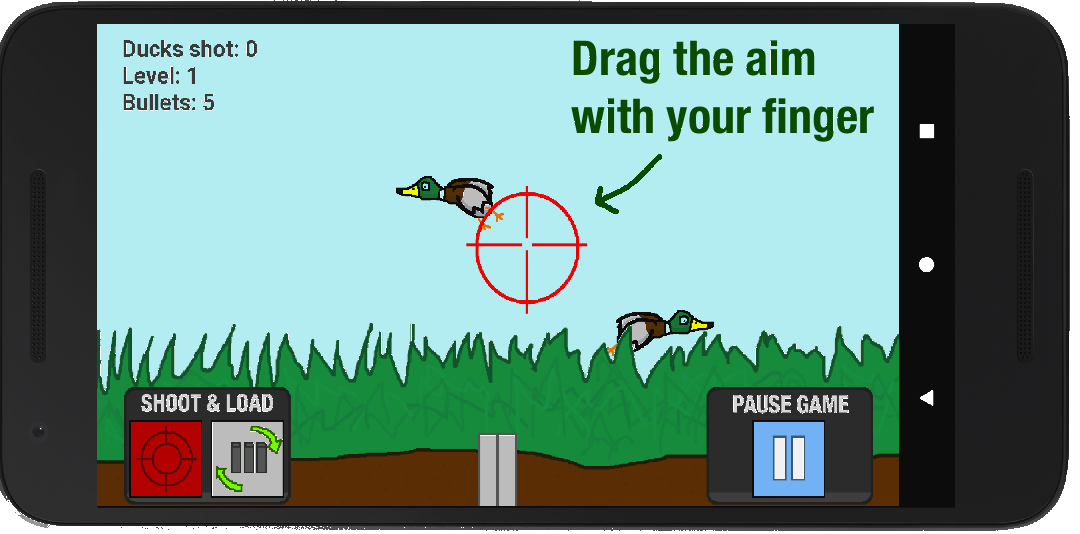
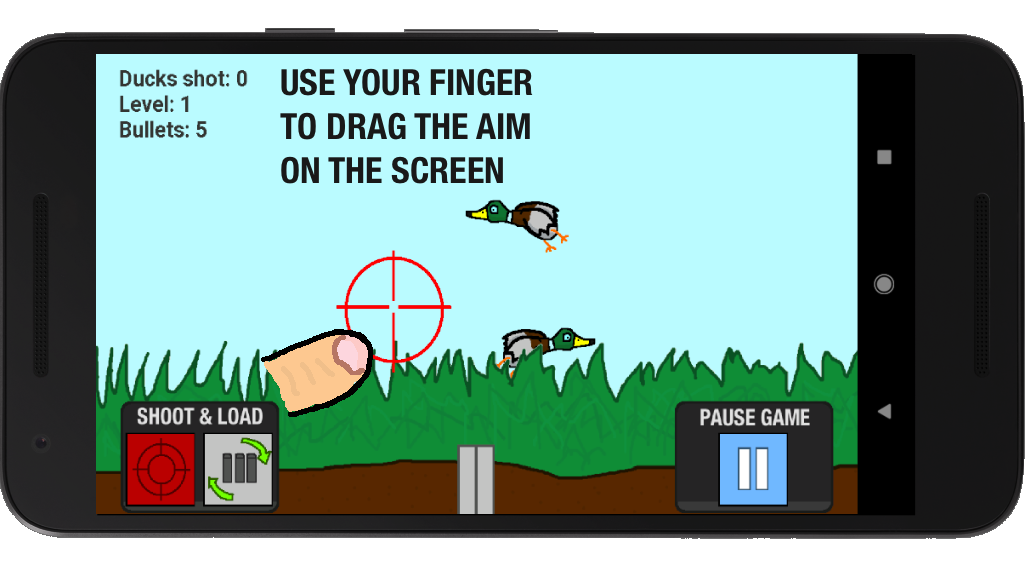
Add howtoplay animation

diff --git a/app/src/main/java/duckordie/lebasoft/duck_or_die/main/Assets.java b/app/src/main/java/duckordie/lebasoft/duck_or_die/main/Assets.java
@@ -19,7 +19,8 @@ public class Assets {
     private static SoundPool soundPool;
     //Backgrounds
     public static Bitmap playstate, storystate, menustate, selectLevelState, selectWeaponState, seastate, winterstate, highscoreState,
-    howtoplaystate1, howtoplaystate2, howtoplaystate3, howtoplaystate4, howtoplaystate5, howtoplaystate6, howtoplaystateBG;
+    howtoplaystate1, howtoplaystate2, howtoplaystate3, howtoplaystate4, howtoplaystate5, howtoplaystate6, howtoplaystateBG,
+    howtoplaystate7, howtoplaystate8, howtoplaystate9, howtoplaystate10, howtoplaystate11, howtoplaystate12;
     //Buttons
     public static Bitmap newgamebutton, continuebutton, howtoplaybutton, highscorebutton, shootButton, loadButton,
             level1state, level2state, level3state, rifleImage, bazookaImage, pistolImage, buttonSpace,
@@ -51,6 +52,12 @@ public class Assets {
         howtoplaystate4 = loadBitmap("howtoplay4.png", false);
         howtoplaystate5 = loadBitmap("howtoplay5.png", false);
         howtoplaystate6 = loadBitmap("howtoplay6.png", false);
+        howtoplaystate7 = loadBitmap("howtoplay7.png", false);
+        howtoplaystate8 = loadBitmap("howtoplay8.png", false);
+        howtoplaystate9 = loadBitmap("howtoplay9.png", false);
+        howtoplaystate10 = loadBitmap("howtoplay10.png", false);
+        howtoplaystate11 = loadBitmap("howtoplay11.png", false);
+        howtoplaystate12 = loadBitmap("howtoplay12.png", false);
         howtoplaystateBG = loadBitmap("howtoplaystate_background.png", false);
 
 
@@ -115,13 +122,19 @@ public class Assets {
         Frame f12 = new Frame(duckRight2, .1f);
         duckAnimR = new Animation(f11, f12);
 
-        Frame htp1 = new Frame(howtoplaystate1, 1f);
+        Frame htp1 = new Frame(howtoplaystate1, 3f);
         Frame htp2 = new Frame(howtoplaystate2, 3f);
-        Frame htp3 = new Frame(howtoplaystate3, 5f);
-        Frame htp4 = new Frame(howtoplaystate4, 5f);
-        Frame htp5 = new Frame(howtoplaystate5, 8f);
-        Frame htp6 = new Frame(howtoplaystate6, 8f);
-        howtoplayAnim = new Animation(htp1, htp2, htp3, htp4, htp5, htp6);
+        Frame htp3 = new Frame(howtoplaystate3, 3f);
+        Frame htp4 = new Frame(howtoplaystate4, 3f);
+        Frame htp5 = new Frame(howtoplaystate5, 3f);
+        Frame htp6 = new Frame(howtoplaystate6, 3f);
+        Frame htp7 = new Frame(howtoplaystate7, 3f);
+        Frame htp8 = new Frame(howtoplaystate8, 3f);
+        Frame htp9 = new Frame(howtoplaystate9, 3f);
+        Frame htp10 = new Frame(howtoplaystate10, 3f);
+        Frame htp11 = new Frame(howtoplaystate11, 3f);
+        Frame htp12 = new Frame(howtoplaystate12, 3f);
+        howtoplayAnim = new Animation(htp1, htp2, htp3, htp4, htp5, htp6, htp7, htp8, htp9, htp10, htp11, htp12);
 
     }
 

diff --git a/app/src/main/java/duckordie/lebasoft/duck_or_die/state/HowToPlayState.java b/app/src/main/java/duckordie/lebasoft/duck_or_die/state/HowToPlayState.java
@@ -15,7 +15,7 @@ public class HowToPlayState extends State{
 
     @Override
     public void init() {
-        continueButton = new UIbutton(348, 600, 931, 708, Assets.continuebutton, Assets.continuebutton);
+        continueButton = new UIbutton(348, 610, 931, 718, Assets.continuebutton, Assets.continuebutton);
     }
 
     @Override
@@ -26,7 +26,7 @@ public class HowToPlayState extends State{
     @Override
     public void render(Painter g) {
         g.drawImage(Assets.howtoplaystateBG, 0, 0, MainActivity.GAME_WIDTH, MainActivity.GAME_HEIGHT);
-        Assets.howtoplayAnim.render(g, 208, 147, 864, 427);
+        Assets.howtoplayAnim.render(g, 123, 120, 1034, 572);
         continueButton.render(g);
     }
 
